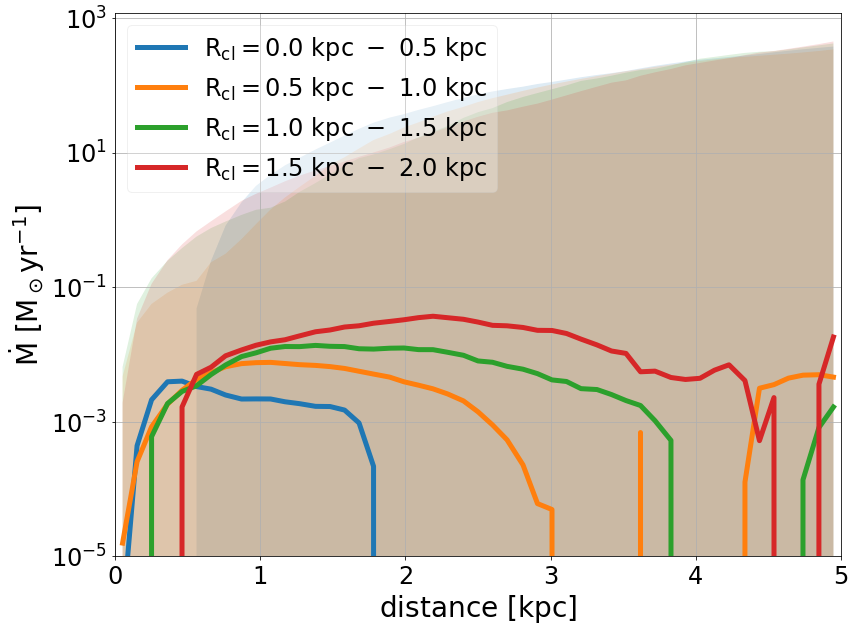
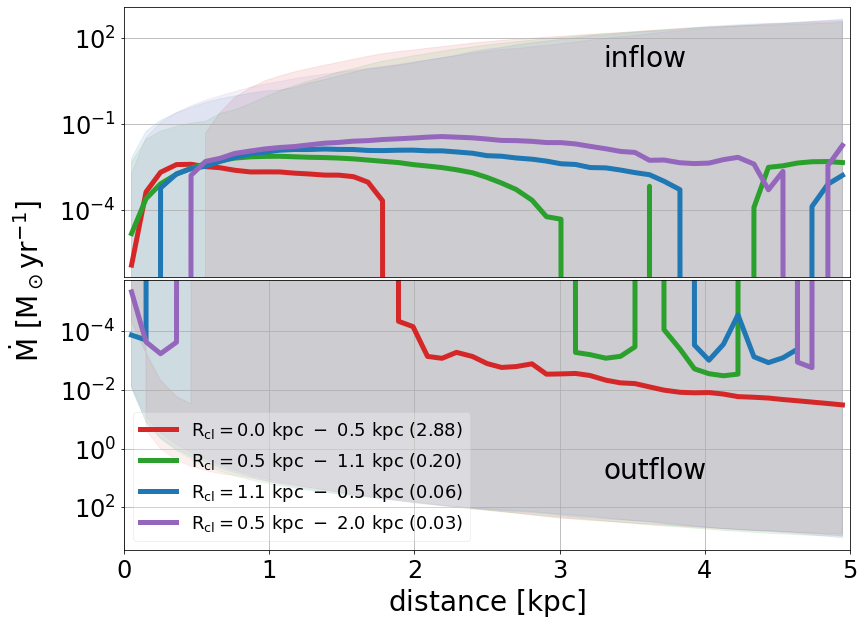
added modified mdot

diff --git a/illustris-analysis/mdot-dn.py b/illustris-analysis/mdot-dn.py
@@ -7,10 +7,7 @@ Created on Mon Mar  8 12:04:17 2021
 
 import numpy as np
 import matplotlib.pyplot as plt
-from scipy.stats import binned_statistic
-#matplotlib.rcParams['pdf.fonttype'] = 42
-#matplotlib.rcParams['ps.fonttype'] = 42
-#matplotlib.use('pdf')
+import matplotlib.gridspec as gridspec
 from decimal import Decimal
 
 def fexp(number):
@@ -37,7 +34,7 @@ muH = 1/X
 
 gamma = 5./3
 gamma_m = 1.03
-sizes = [0.5, 1.0, 1.5, 2.0] #kpc
+sizes = [0.5, 1.1, 0.5, 2.0] #kpc
 
 K = 4*np.pi
 q = 2
@@ -68,25 +65,49 @@ for select in range(len(sizes)):
     mdot_84.append( -K*(dn_radius*kpc)**q*(dn_nH_84*mu*mp)*(dn_vel_84*1e5)/(Msun/yr) )
 
 
-sizes = np.hstack(([0],sizes))
-plt.figure(figsize=(13,10))
+sizes = np.hstack(([0,],sizes))
+fig, axs = plt.subplots(2, 1, figsize=(13,10))
+gs1 = gridspec.GridSpec(2, 1)
+gs1.update(wspace=0.28, hspace=0.008) # set the spacing between axes.
+axs = np.array([ [plt.subplot(gs1[0]),], 
+                 [plt.subplot(gs1[1]),] ])
+axs[0, 0].get_xaxis().set_ticklabels([])
+axs[0, 0].set_xlim(xmin=0., xmax=5.0)
+axs[1, 0].set_xlim(xmin=0., xmax=5.0)
+axs[1, 0].invert_yaxis()
+
+colors = ['tab:red', 'tab:green' ,'tab:blue', 'tab:purple']
 for cloud in range(1,len(sizes)): 
-    plt.plot(dn_radius, mdot_50[cloud-1], linewidth=5, 
-             label=r'$\rm R_{cl}=%.1f \ kpc\ -\ %.1f \ kpc$'%(sizes[cloud-1], 
-             sizes[cloud]) )
-    plt.fill_between(dn_radius, mdot_16[cloud-1], mdot_84[cloud-1],
-                    alpha=0.15 )
+    inflow, outflow = np.median(mdot_50[cloud-1][mdot_50[cloud-1]>0]), -np.median(mdot_50[cloud-1][mdot_50[cloud-1]<0])
+    #net = inflow-outflow
+    net = outflow/inflow
+    axs[0, 0].plot(dn_radius, mdot_50[cloud-1], linewidth=5, linestyle='-', color=colors[cloud-1] )
+             #label=r'$\rm R_{cl}=%.1f \ kpc\ -\ %.1f \ kpc$ ($\rm %.1f \times 10^{%d}\ M_\odot yr^{-1}$)'%(sizes[cloud-1], 
+             #sizes[cloud], fman(net),fexp(net)) )
+    axs[0, 0].fill_between(dn_radius, mdot_16[cloud-1], mdot_84[cloud-1],
+                    alpha=0.1, color=colors[cloud-1] )
     
-plt.yscale('log')  
-plt.ylim(ymin=1e-5)  
-plt.xlim(xmin=0, xmax=5.)
-#plt.title('Mass flow around IllustrisTNG50-1  simulated clouds', size=28)
-plt.ylabel(r'$\dot{\rm M}$ [$\rm M_\odot yr^{-1}$]',size=28)
-plt.xlabel(r'distance [$\rm kpc$]',size=28)
-plt.tick_params(axis='both', which='major', labelsize=24, direction="out", pad=5)
-plt.tick_params(axis='both', which='minor', labelsize=24, direction="out", pad=5)
-plt.grid()
-#plt.ylim(ymin=-1.5e2,ymax=1.5e2)
-plt.legend(loc='upper left', prop={'size': 24},framealpha=0.3, shadow=False, fancybox=True)
+    axs[1, 0].plot(dn_radius, -mdot_50[cloud-1], linewidth=5, linestyle='-', color=colors[cloud-1],
+                   label=r'$\rm R_{cl}=%.1f \ kpc\ -\ %.1f \ kpc$ (%.2f)'%(sizes[cloud-1], sizes[cloud], net))
+    axs[1, 0].fill_between(dn_radius, -mdot_16[cloud-1], -mdot_84[cloud-1],
+                    alpha=0.1, color=colors[cloud-1] )
+    
+    
+axs[0, 0].set_yscale('log')
+axs[1, 0].set_yscale('log')  
+
+
+axs[0,0].text(3.3, 10, r'inflow', fontsize=28, color='black')
+axs[1,0].text(3.3, 10, r'outflow', fontsize=28, color='black')
+fig.supylabel(r'$\dot{\rm M}$ [$\rm M_\odot yr^{-1}$]',size=28, x=-0.0001)
+axs[1, 0].set_xlabel(r'distance [$\rm kpc$]',size=28)
+axs[0, 0].tick_params(axis='both', which='major', labelsize=24, direction="out", pad=5)
+axs[0, 0].tick_params(axis='both', which='minor', labelsize=24, direction="out", pad=5)
+axs[1, 0].tick_params(axis='both', which='major', labelsize=24, direction="out", pad=5)
+axs[1, 0].tick_params(axis='both', which='minor', labelsize=24, direction="out", pad=5)
+axs[0, 0].set_xticks([])
+axs[0, 0].grid()
+axs[1, 0].grid()
+axs[1, 0].legend(loc='lower left', prop={'size': 18},framealpha=0.3, shadow=False, fancybox=True)
 plt.savefig('mdot-tng.png', transparent=True, bbox_inches='tight')
 plt.show()
